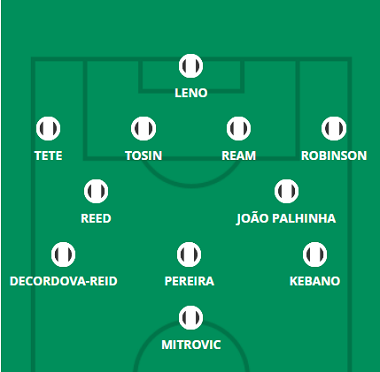
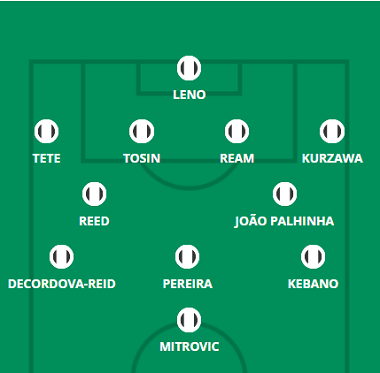
8° Rodada - Manhã

diff --git a/fulham.html b/fulham.html
@@ -66,7 +66,7 @@
             <hgroup>
                 <h1> Provável Escalação</h1>
                 <h2 class="direita"> por FabioVascão </h2>
-                <h3 class="direita"> Atualizado em 09/Setembro/2022 </h3>
+                <h3 class="direita"> Atualizado em 15/Setembro/2022 </h3>
             </hgroup>
     
             <h2 class="time"> <img src="_fotos/_logos/logofulham.png" />Fulham</h2>
@@ -75,9 +75,9 @@
                     <img src="_fotos/_dinamicas/fulham.png" />
                 </figure>
             </aside>
-                <div class="escalacao"><h2 class="titulo">Ultimas Notícias</h2> <h4><p>Mais informações em breve.</p></h4><br>
+                <div class="escalacao"><h2 class="titulo">Ultimas Notícias</h2> <h4><p>Manor Solomon (lesão no joelho) e Harry Wilson (lesão no joelho) permanecem afastados, enquanto Marco Silva admitiu que seria "difícil" para Antonee Robinson se recuperar de uma lesão no tornozelo a tempo da 8ª rodada - embora ele não tenha descartado completamente a volta, dizendo que os Cottagers "ainda têm mais algumas horas até o jogo". A contratação no prazo final, Layvin Kurzawa, não foi considerada apta o suficiente para substituir Robinson há duas semanas, mas Silva disse que a "situação é diferente" após quinze dias de treinamento com seus novos companheiros de equipe, para que o emprestado do PSG pudesse estrear no Fulham. Se ele não estiver em forma e Robinson não se recuperar, veremos Tim Ream, Bobby DeCordova-Reid ou Kevin Mbabu se mudarem para um papel desconhecido de lateral-esquerdo; o último foi de fato encarregado da responsabilidade na 6° Rodada, mas teve um pesadelo no Spurs. Além dessa posição, as coisas foram muito resolvidas em 2022/23: todos os jogadores de campo, exceto Kurzawa, nesta escalação prevista, começaram todas as partidas para as quais estão disponíveis, enquanto Bernd Leno agora parece estabelecido entre os postes depois de substituir Marek Rodak na 3° Rodada. Daniel James estará se esforçando muito para ser titular às custas de DeCordova-Reid ou Neeskens Kebano, no entanto, enquanto Issa Diop ou Shane Duffy podem dar uma olhada no meio-campo se Ream for transferido para deixado para trás.</p></h4><br>
                     <h4><strong>Jogadores fora da próxima partida:</strong> Solomon e Harry Wilson</h4><br><br>
-                    <h4><strong>Jogadores dúvidas:</strong> </h4>
+                    <h4><strong>Jogadores dúvidas:</strong>Robinson  </h4>
                 </div> 
         </header>
         </article>

diff --git a/south.html b/south.html
@@ -66,7 +66,7 @@
             <hgroup>
                 <h1> Provável Escalação</h1>
                 <h2 class="direita"> por FabioVascão </h2>
-                <h3 class="direita"> Atualizado em 09/Setembro/2022 </h3>
+                <h3 class="direita"> Atualizado em 15/Setembro/2022 </h3>
             </hgroup>
     
             <h2 class="time"> <img src="_fotos/_logos/logosouth.png" />Southampton</h2>
@@ -75,8 +75,8 @@
                     <img src="_fotos/_dinamicas/south.png" />
                 </figure>
             </aside>
-                <div class="escalacao"><h2 class="titulo">Ultimas Notícias</h2> <h4><p>Mais informações em breve.</p></h4><br>
-                    <h4><strong>Jogadores fora da próxima partida:</strong> Caleta-Car, Lavia, Livramento e Romeu</h4><br><br>
+                <div class="escalacao"><h2 class="titulo">Ultimas Notícias</h2> <h4><p>Tino Livramento (lesão no joelho) e Romeo Lavia (lesão múscular) estão fora do jogo do Aston Villa, mas Ralph Hasenhuttl não tem novas preocupações para a 8ª rodada, com o técnico do Southampton informando na quinta-feira que o resto de sua equipe estava em treinamento. Os Saints conseguiram duas vitórias e um empate em suas últimas cinco partidas, com a mudança para quatro zagueiros funcionando bem; mesmo na derrota para o Wolves na 6ª rodada, Ralph Hasenhuttl se declarou satisfeito com a exibição e disse que "a única coisa que faltava" era um gol. Gavin Bazunu, James Ward-Prowse, Adam Armstrong, Moi Elyounoussi e toda a defesa, o recém-reformado Romain Perraud, foram titulares sempre presentes nas últimas quatro partidas, enquanto a implantação de Armstrong na ala esquerda viu Che Adams assumir o controle do papel do atacante solitário na configuração 4-2-3-1. Ainsley Maitland-Niles estará pressionando Ibrahima Diallo na volância, no entanto, enquanto Stuart Armstrong espera dar uma olhada às custas de Moi Elyounoussi ou Joe Aribo mais à frente. Samuel Edozie chamou a atenção em uma participação especial na 6° Rodada, mas seu status de novato pode vê-lo mais lentamente integrado à configuração do time principal, com mais reservas ao lado de Sekou Mara no Villa Park.</p></h4><br>
+                    <h4><strong>Jogadores fora da próxima partida:</strong> Lavia, Livramento e Romeu</h4><br><br>
                     <h4><strong>Jogadores dúvidas:</strong> </h4>
                 </div> 
         </header>

diff --git a/liverpool.html b/liverpool.html
@@ -66,7 +66,7 @@
             <hgroup>
                 <h1> Provável Escalação</h1>
                 <h2 class="direita"> por FabioVascão </h2>
-                <h3 class="direita"> Atualizado em 09/Setembro/2022 </h3>
+                <h3 class="direita"> Atualizado em 15/Setembro/2022 </h3>
             </hgroup>
     
             <h2 class="time"> <img src="_fotos/_logos/logoliverpool.png" />Liverpool</h2>
@@ -75,7 +75,7 @@
                     <img src="_fotos/_dinamicas/liverpool.png" />
                 </figure>
             </aside>
-                <div class="escalacao"><h2 class="titulo">Ultimas Notícias</h2> <h4><p>Mais informações em breve.</p></h4><br>
+                <div class="escalacao"><h2 class="titulo">Ultimas Notícias</h2> <h4><p>Jogo da 8° Rodada adiado.</p></h4><br>
                     <h4><strong>Jogadores fora da próxima partida:</strong> Thiago Alcántara, Davies, Henderson, Keita, Konaté, Oxlade-Chamberlain, Ramsay</h4><br><br>
                     <h4><strong>Jogadores dúvidas:</strong> Kelleher, Arthur e Diogo Jota</h4>
                 </div> 

diff --git a/united.html b/united.html
@@ -66,7 +66,7 @@
             <hgroup>
                 <h1> Provável Escalação</h1>
                 <h2 class="direita"> por FabioVascão </h2>
-                <h3 class="direita"> Atualizado em 09/Setembro/2022 </h3>
+                <h3 class="direita"> Atualizado em 15/Setembro/2022 </h3>
             </hgroup>
     
             <h2 class="time"> <img src="_fotos/_logos/logounited.png" />Manchester United</h2>
@@ -75,7 +75,7 @@
                     <img src="_fotos/_dinamicas/united.png" />
                 </figure>
             </aside>
-                <div class="escalacao"><h2 class="titulo">Ultimas Notícias</h2> <h4><p>Mais informações em breve.</p></h4><br>
+                <div class="escalacao"><h2 class="titulo">Ultimas Notícias</h2> <h4><p>Jogo da 8° Rodada adiado.</p></h4><br>
                     <h4><strong>Jogadores fora da próxima partida:</strong> Martial e Pellistri</h4><br><br>
                     <h4><strong>Jogadores dúvidas:</strong> Shaw e Wan Bissaka</h4>
                 </div> 

diff --git a/palace.html b/palace.html
@@ -66,7 +66,7 @@
             <hgroup>
                 <h1> Provável Escalação</h1>
                 <h2 class="direita"> por FabioVascão </h2>
-                <h3 class="direita"> Atualizado em 09/Setembro/2022 </h3>
+                <h3 class="direita"> Atualizado em 15/Setembro/2022 </h3>
             </hgroup>
     
             <h2 class="time"> <img src="_fotos/_logos/logopalace.png" />Crystal Palace</h2>
@@ -75,7 +75,7 @@
                     <img src="_fotos/_dinamicas/palace.png" />
                 </figure>
             </aside>
-                <div class="escalacao"><h2 class="titulo">Ultimas Notícias</h2> <h4><p>Mais informações em breve.</p></h4><br>
+                <div class="escalacao"><h2 class="titulo">Ultimas Notícias</h2> <h4><p>Jogo da 8° Rodada adiado.</p></h4><br>
                     <h4><strong>Jogadores fora da próxima partida:</strong> Ferguson, McArthur e Tomkins
                     </h4><br><br>
                     <h4><strong>Jogadores dúvidas:</strong> Butland</h4>

diff --git a/leeds.html b/leeds.html
@@ -66,7 +66,7 @@
             <hgroup>
                 <h1> Provável Escalação</h1>
                 <h2 class="direita"> por FabioVascão </h2>
-                <h3 class="direita"> Atualizado em 09/Setembro/2022 </h3>
+                <h3 class="direita"> Atualizado em 15/Setembro/2022 </h3>
             </hgroup>
     
             <h2 class="time"> <img src="_fotos/_logos/logoleeds.png" />Leeds</h2>
@@ -75,7 +75,7 @@
                     <img src="_fotos/_dinamicas/leeds.png" />
                 </figure>
             </aside>
-                <div class="escalacao"><h2 class="titulo">Ultimas Notícias</h2> <h4><p>Mais informações em breve.</p></h4><br>
+                <div class="escalacao"><h2 class="titulo">Ultimas Notícias</h2> <h4><p>Jogo da 8° Rodada adiado.</p></h4><br>
                     <h4><strong>Jogadores fora da próxima partida:</strong> Dallas e Rodrigo</h4><br><br>
                     <h4><strong>Jogadores dúvidas:</strong> Ayling, Cooper e Firpo</h4>
                 </div> 

diff --git a/brighton.html b/brighton.html
@@ -66,7 +66,7 @@
             <hgroup>
                 <h1> Provável Escalação</h1>
                 <h2 class="direita"> por FabioVascão </h2>
-                <h3 class="direita"> Atualizado em 09/Setembro/2022 </h3>
+                <h3 class="direita"> Atualizado em 15/Setembro/2022 </h3>
             </hgroup>
     
             <h2 class="time"> <img src="_fotos/_logos/logobrighton.png" />Brighton</h2>
@@ -75,7 +75,7 @@
                     <img src="_fotos/_dinamicas/brighton.png" />
                 </figure>
             </aside>
-                <div class="escalacao"><h2 class="titulo">Ultimas Notícias</h2> <h4><p>Mais informações em breve.</p></h4><br>
+                <div class="escalacao"><h2 class="titulo">Ultimas Notícias</h2> <h4><p>Jogo da 8° Rodada adiado.</p></h4><br>
                     <h4><strong>Jogadores fora da próxima partida:</strong> Lallana e Moder
                     </h4><br><br>
                     <h4><strong>Jogadores dúvidas:</strong> Sarmiento</h4>

diff --git a/chelsea.html b/chelsea.html
@@ -66,7 +66,7 @@
             <hgroup>
                 <h1> Provável Escalação</h1>
                 <h2 class="direita"> por FabioVascão </h2>
-                <h3 class="direita"> Atualizado em 09/Setembro/2022 </h3>
+                <h3 class="direita"> Atualizado em 15/Setembro/2022 </h3>
             </hgroup>
     
             <h2 class="time"> <img src="_fotos/_logos/logochelsea.png" />Chelsea</h2>
@@ -75,7 +75,7 @@
                     <img src="_fotos/_dinamicas/chelsea.png" />
                 </figure>
             </aside>
-                <div class="escalacao"><h2 class="titulo">Ultimas Notícias</h2> <h4><p>Mais informações em breve.</p></h4><br>
+                <div class="escalacao"><h2 class="titulo">Ultimas Notícias</h2> <h4><p>Jogo da 8° Rodada adiado.</p></h4><br>
                     <h4><strong>Jogadores fora da próxima partida:</strong> Auba, Kante e Zakaria</h4><br><br>
                     <h4><strong>Jogadores dúvidas:</strong> </h4>
                 </div> 

diff --git a/_css/estilo.css b/_css/estilo.css
@@ -199,7 +199,7 @@ footer#rodape button:hover {
     border: 1px solid rgba(0, 0, 0, 0.301);
     box-shadow: 5px 5px 10px black;
     background-color: var(--cor1);
-    transform: translate(-3px;-3px);
+    transform: translate(-3px, -3px);
     transition: transform 0.3s;
 }
 .botao1 {
